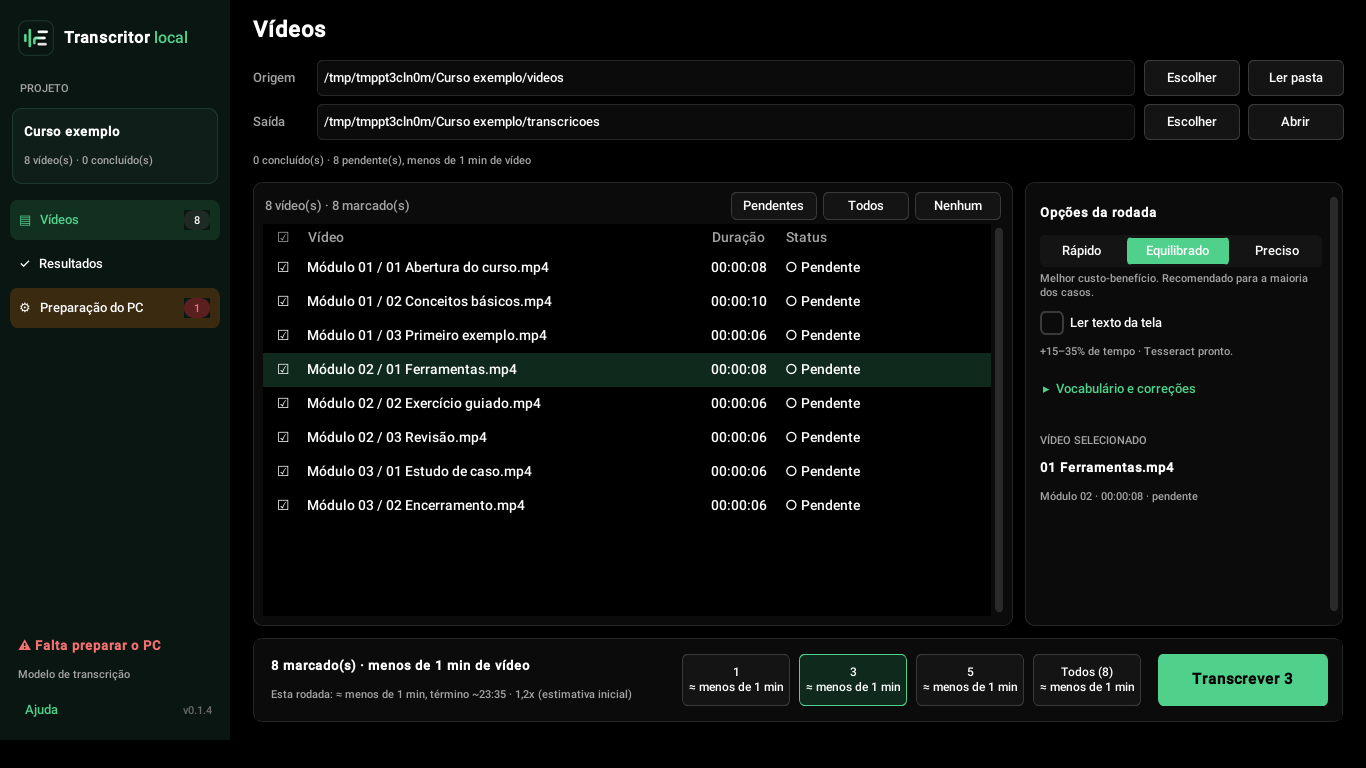
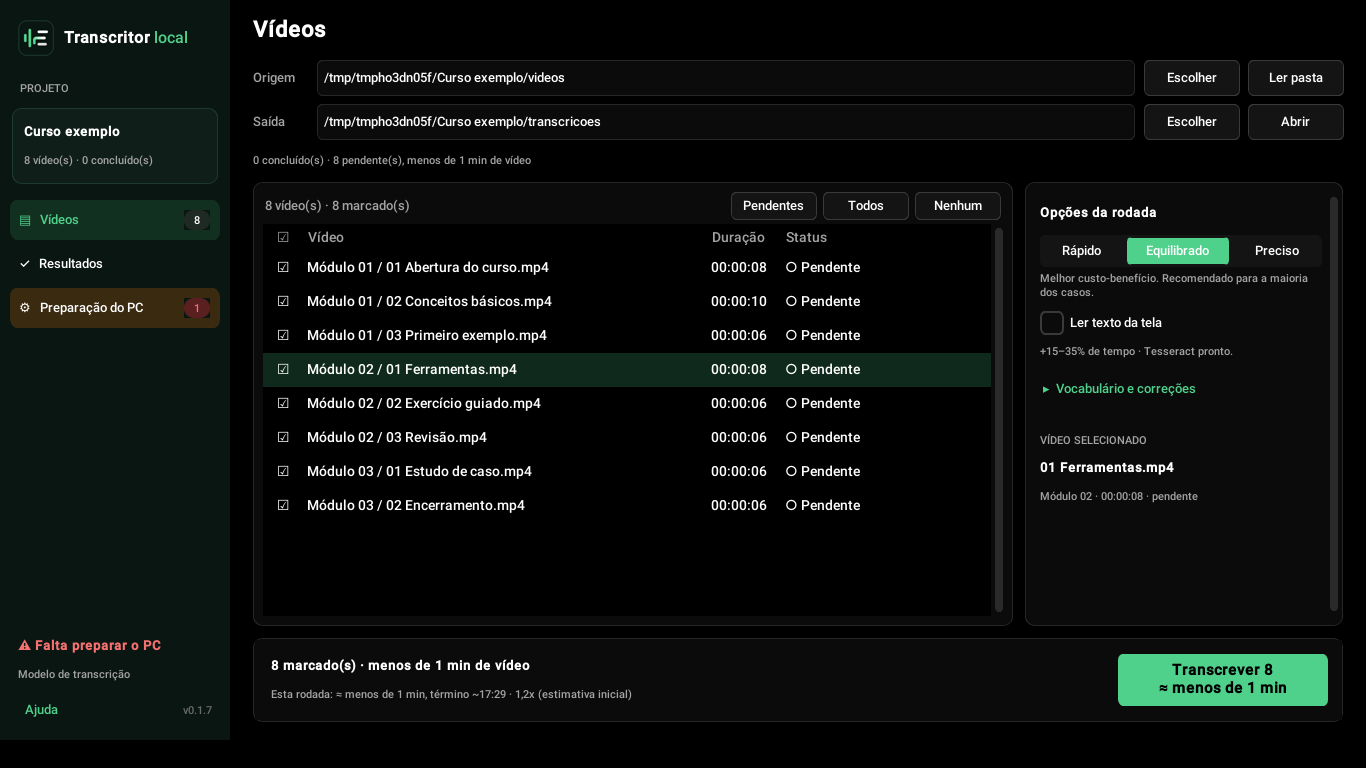
v0.1.8: botao unico Transcrever N, estimativa honesta e confirmacao centralizada
- Cartoes de quantidade saem; o botao roda os videos marcados (ADR-019)
- N10: tabela repintada apos rodada cancelada
- N11: estimativa so aprende com videos de 3 min ou mais, ponderada pela duracao
- N12: confirmacao centralizada, maior, com borda verde e lista dos videos
- Registro da 4a rodada no Windows

Claude-Session: https://claude.ai/code/session_01U5eN2mjJVSgCNjEcxw7N5w

Changed region(s): [[0.4919, 0.8438, 0.9531, 0.9375], [0.2767, 0.1562, 0.4305, 0.1875], [0.2767, 0.0938, 0.3997, 0.125]]

diff --git a/transcritor/gui/app.py b/transcritor/gui/app.py
@@ -97,7 +97,6 @@ class App(ctk.CTk):
         self.f_negrito = ctk.CTkFont(weight="bold")
         self.f_titulo = ctk.CTkFont(size=22, weight="bold")
         self.f_pequena = ctk.CTkFont(size=11)
-        self.f_qtd = ctk.CTkFont(size=12)
         self.f_principal = ctk.CTkFont(size=15, weight="bold")
         tema.estilo_tabela(self)
 
@@ -392,13 +391,9 @@ class App(ctk.CTk):
         self.lbl_sel_det = ctk.CTkLabel(txt, text="Escolha a pasta dos vídeos para começar.", anchor="w",
                                         text_color=tema.CINZA, font=self.f_pequena, justify="left")
         self.lbl_sel_det.pack(fill="x")
-        self.frm_qtd = ctk.CTkFrame(acao, fg_color="transparent")
-        self.frm_qtd.grid(row=0, column=1, padx=4)
-        self.btns_qtd: dict[str, ctk.CTkButton] = {}
-        self._qtd: str | None = None
-        self.btn_iniciar = ctk.CTkButton(acao, text="Transcrever", width=170, height=52, state="disabled",
+        self.btn_iniciar = ctk.CTkButton(acao, text="Transcrever", width=210, height=52, state="disabled",
                                          font=self.f_principal, command=self._iniciar)
-        self.btn_iniciar.grid(row=0, column=2, padx=(8, 14), pady=12)
+        self.btn_iniciar.grid(row=0, column=1, padx=(8, 14), pady=12)
         self._estado_principal(False)
 
         # ---- modo "rodada em andamento / terminada"
@@ -821,40 +816,16 @@ class App(ctk.CTk):
         return [i for i in self.itens if i.rel in self.marcados]
 
     def _atualizar_quantidades(self):
-        if not hasattr(self, "frm_qtd"):
+        """A seleção é a tabela: o que está marcado é o que roda (sem escolha extra de quantidade)."""
+        if not hasattr(self, "btn_iniciar"):
             return
         n = len(self._selecionados())
-        opcoes = [str(q) for q in (1, 3, 5) if q < n] + (["todos"] if n else [])
-        if list(self.btns_qtd) != opcoes:
-            for b in self.btns_qtd.values():
-                b.destroy()
-            self.btns_qtd = {}
-            for chave in opcoes:
-                b = ctk.CTkButton(self.frm_qtd, text="", width=92, height=52, font=self.f_qtd,
-                                  command=lambda c=chave: self._escolher_qtd(c), **tema.secundario())
-                b.pack(side="left", padx=4)
-                self.btns_qtd[chave] = b
-        if self._qtd not in opcoes:
-            self._qtd = None
         self.lbl_contagem.configure(text=f"{len(self.itens)} vídeo(s) · {n} marcado(s)" if self.itens
                                     else "Nenhum vídeo listado")
         self._atualizar_estimativa()
 
-    def _escolher_qtd(self, chave: str):
-        if self.rodando:
-            return
-        self._qtd = chave
-        self._atualizar_estimativa()
-
-    def _quantidade(self) -> int:
-        if self._qtd is None:
-            return 0
-        if self._qtd == "todos":
-            return len(self._selecionados())
-        return int(self._qtd)
-
     def _rodada(self) -> list[Item]:
-        return self._selecionados()[: self._quantidade()]
+        return self._selecionados()
 
     def _atualizar_resumo(self):
         if not self.projeto:
@@ -896,25 +867,16 @@ class App(ctk.CTk):
         self.lbl_sel_resumo.configure(
             text=f"{len(sel)} marcado(s) · {tempo_humano(sum(i.duracao for i in sel))} de vídeo" if sel
             else "Nenhum vídeo marcado")
-        for chave, b in self.btns_qtd.items():
-            q = len(sel) if chave == "todos" else int(chave)
-            rot = f"Todos ({len(sel)})" if chave == "todos" else chave
-            e = self.projeto.estimar(sel[:q], com_ocr)
-            escolhido = chave == self._qtd
-            b.configure(text=f"{rot}\n≈ {tempo_humano(e.total)}",
-                        fg_color=tema.VERDE_FUNDO if escolhido else tema.SUPERFICIE_2,
-                        border_color=tema.VERDE if escolhido else tema.BORDA_FORTE,
-                        text_color=tema.BRANCO)
         if rodada:
             er = self.projeto.estimar(rodada, com_ocr)
             fim = (datetime.now() + timedelta(seconds=er.total)).strftime("%H:%M")
             base = "medida neste PC" if er.medida else "estimativa inicial"
             self.lbl_sel_det.configure(text=f"Esta rodada: ≈ {tempo_humano(er.total)}, término ~{fim} · "
                                             f"{er.velocidade:.1f}x ({base})".replace(".", ","))
-            self.btn_iniciar.configure(text=f"Transcrever {len(rodada)}")
+            self.btn_iniciar.configure(text=f"Transcrever {len(rodada)}\n≈ {tempo_humano(er.total)}")
         else:
-            self.lbl_sel_det.configure(text="Quantos vídeos nesta rodada? (obrigatório)" if sel
-                                       else "Marque os vídeos na lista.")
+            self.lbl_sel_det.configure(text="Marque os vídeos na lista." if not sel
+                                       else "")
             self.btn_iniciar.configure(text="Transcrever")
         self._estado_principal(bool(rodada) and not self.rodando)
 
@@ -958,6 +920,8 @@ class App(ctk.CTk):
         e = self.projeto.estimar(rodada, cfg.ocr)
         r = Dialogo(self, "Confirmar rodada",
                     f"Processar {len(rodada)} vídeo(s)? Tempo estimado: ≈ {tempo_humano(e.total)}.\n\n"
+                    + "".join(f"• {i.rel}\n" for i in rodada[:5])
+                    + (f"• ... e mais {len(rodada) - 5}\n" if len(rodada) > 5 else "") + "\n"
                     "O PC fica mais lento enquanto isso, e o app impede que ele entre em suspensão. "
                     "Pode deixar rodando sozinho.",
                     [("Começar", "ok", True), ("Cancelar", None, False)], icone="▶", som=False).perguntar()
@@ -1019,7 +983,7 @@ class App(ctk.CTk):
         estado = "disabled" if sim else "normal"
         for w in (self.btn_ler, self.seg_preset, self.chk_ocr, self.ent_vocab, self.ent_videos, self.ent_saida,
                   self.btn_proc_videos, self.btn_proc_saida, self.btn_corr, *self.btns_marcar,
-                  *self.btns_qtd.values()):
+                  ):
             w.configure(state=estado)
         if sim:
             self.lbl_trava.pack(side="right")

diff --git a/transcritor/gui/componentes.py b/transcritor/gui/componentes.py
@@ -49,17 +49,26 @@ class Dica:
             self._janela = None
 
 
+def centralizar(janela, pai) -> None:
+    """Centraliza a janela no meio do pai (horizontal e vertical).
+
+    Mede o tamanho PEDIDO pelo conteúdo: o CTkToplevel nasce com 200x200 e `winfo_width` devolvia isso,
+    o que deixava a janela deslocada para a direita e para cima (achado N12)."""
+    janela.update_idletasks()
+    w, h = janela.winfo_reqwidth(), janela.winfo_reqheight()
+    px, py = pai.winfo_rootx(), pai.winfo_rooty()
+    pw, ph = pai.winfo_width(), pai.winfo_height()
+    janela.geometry(f"{w}x{h}+{max(0, px + (pw - w) // 2)}+{max(0, py + (ph - h) // 2)}")
+
+
 def trazer_para_frente(janela, pai) -> None:
     """Centraliza sobre o pai, torna modal e garante que apareça NA FRENTE (problema comum no Windows)."""
     janela.transient(pai)
-    janela.update_idletasks()
-    w, h = janela.winfo_width(), janela.winfo_height()
-    px, py = pai.winfo_rootx(), pai.winfo_rooty()
-    pw, ph = pai.winfo_width(), pai.winfo_height()
-    janela.geometry(f"+{max(0, px + (pw - w) // 2)}+{max(0, py + (ph - h) // 3)}")
+    centralizar(janela, pai)
 
     def _frente():
         try:
+            centralizar(janela, pai)  # o CustomTkinter reposiciona a janela logo após criar
             janela.lift()
             janela.attributes("-topmost", True)
             janela.focus_force()
@@ -67,7 +76,16 @@ def trazer_para_frente(janela, pai) -> None:
             janela.after(300, lambda: janela.attributes("-topmost", False))
         except tk.TclError:
             pass
-    janela.after(60, _frente)  # o CustomTkinter reposiciona a janela logo após criar
+    janela.after(60, _frente)
+    janela.after(250, lambda: _recentralizar(janela, pai))
+
+
+def _recentralizar(janela, pai) -> None:
+    try:
+        if janela.winfo_exists():
+            centralizar(janela, pai)
+    except tk.TclError:
+        pass
 
 
 def piscar_barra_de_tarefas(janela, vezes: int = 5) -> None:
@@ -117,17 +135,20 @@ class Dialogo(ctk.CTkToplevel):
     """
 
     def __init__(self, pai, titulo: str, mensagem: str, botoes, icone: str = "⚠", som: bool = True):
-        super().__init__(pai)
+        super().__init__(pai, fg_color="#0A0A0A")
         self.title(titulo)
         self.resizable(False, False)
         self.resultado = None
         self.botoes = botoes
-        topo = ctk.CTkFrame(self, fg_color="transparent")
-        topo.pack(fill="both", expand=True, padx=20, pady=(18, 8))
+        quadro = ctk.CTkFrame(self, fg_color="#0A0A0A", border_width=2, border_color="#4FD18B", corner_radius=0)
+        quadro.pack(fill="both", expand=True)  # borda verde: o diálogo se destaca do fundo preto
+        topo = ctk.CTkFrame(quadro, fg_color="transparent")
+        topo.pack(fill="both", expand=True, padx=22, pady=(22, 8))
         ctk.CTkLabel(topo, text=icone, font=ctk.CTkFont(size=30)).pack(side="left", anchor="n", padx=(0, 14))
-        ctk.CTkLabel(topo, text=mensagem, justify="left", wraplength=440, anchor="w").pack(side="left", fill="x")
-        barra = ctk.CTkFrame(self, fg_color="transparent")
-        barra.pack(fill="x", padx=20, pady=(4, 16))
+        ctk.CTkLabel(topo, text=mensagem, justify="left", wraplength=480, anchor="w",
+                     font=ctk.CTkFont(size=14)).pack(side="left", fill="x")
+        barra = ctk.CTkFrame(quadro, fg_color="transparent")
+        barra.pack(fill="x", padx=22, pady=(4, 20))
         for texto, valor, destaque in reversed(botoes):
             estilo = {} if destaque else dict(fg_color="#141414", hover_color="#1F1F1F", text_color="#FFFFFF",
                                               border_width=1, border_color="#3A3A3A")

diff --git a/transcritor/registro.py b/transcritor/registro.py
@@ -15,7 +15,6 @@ from __future__ import annotations
 
 import csv
 import shutil
-import statistics
 import time
 from dataclasses import asdict, dataclass, fields
 from datetime import datetime
@@ -55,6 +54,8 @@ class Linha:
     def concluido(self) -> bool:
         return self.status == OK
 
+
+MIN_APRENDER_S = 180.0   # vídeos mais curtos não entram nas estimativas (achado N11)
 
 _NUMERICOS = {"duracao_s", "seg_transcricao", "seg_ocr", "velocidade"}
 _INTEIROS = {"tamanho_bytes", "palavras", "palavras_tela", "capturas", "correcoes", "threads"}
@@ -211,14 +212,25 @@ class Registro:
     def pendentes(self) -> list[Linha]:
         return [l for l in self.ativos() if l.status != OK]
 
+    def _para_aprender(self, preset: str | None = None) -> list[Linha]:
+        """Últimos 5 vídeos concluídos que servem de amostra: com pelo menos MIN_APRENDER_S de duração.
+
+        Vídeo curto tem tempo fixo de partida (1,2x num de 42 s contra 1,7x num de 36 min) e envenenava
+        a estimativa (achado N11)."""
+        v = [l for l in self.linhas.values()
+             if l.status == OK and l.duracao_s >= MIN_APRENDER_S and (preset is None or l.preset == preset)]
+        return v[-5:]
+
     def velocidade_medida(self, preset: str) -> float | None:
-        """Mediana das últimas 5 velocidades reais para esta predefinição."""
-        v = [l.velocidade for l in self.linhas.values()
-             if l.status == OK and l.preset == preset and l.velocidade > 0]
-        return statistics.median(v[-5:]) if v else None
+        """Velocidade ponderada pela duração dos últimos 5 vídeos longos (minutos de vídeo por minuto real)."""
+        v = [l for l in self._para_aprender(preset) if l.velocidade > 0]
+        if not v:
+            return None
+        return sum(l.duracao_s for l in v) / sum(l.duracao_s / l.velocidade for l in v)
 
     def ocr_por_hora_medido(self) -> float | None:
-        """Segundos de OCR por hora de vídeo, medidos."""
-        v = [l.seg_ocr / (l.duracao_s / 3600) for l in self.linhas.values()
-             if l.status == OK and l.ocr == "sim" and l.seg_ocr > 0 and l.duracao_s > 0]
-        return statistics.median(v[-5:]) if v else None
+        """Segundos de OCR por hora de vídeo, medidos (ponderado pela duração)."""
+        v = [l for l in self._para_aprender() if l.ocr == "sim" and l.seg_ocr > 0]
+        if not v:
+            return None
+        return sum(l.seg_ocr for l in v) / (sum(l.duracao_s for l in v) / 3600)

diff --git a/ferramentas/fumaca/acao_e_confirmacao.py b/ferramentas/fumaca/acao_e_confirmacao.py
@@ -1,0 +1,44 @@
+"""Fumaça: botão único Transcrever N (sem cartões) e confirmação centralizada (v0.1.8, N12)."""
+import sys, time, tempfile
+from pathlib import Path
+sys.path.insert(0, "."); sys.path.insert(0, "tests")
+from conftest import criar_video, ModeloFalso
+from transcritor import pipeline
+from transcritor.gui import app as A
+m = ModeloFalso()
+pipeline.carregar_modelo = lambda *a, **k: (m, "cpu")
+pipeline.modelo_baixado = lambda n: True
+A.modelo_baixado = lambda n: True
+A.App._verificacao_inicial = lambda self: None
+tmp = Path(tempfile.mkdtemp())
+for nome in ("a", "b", "c"):
+    criar_video(tmp/f"v/{nome}.mp4", [(nome, 4)])
+app = A.App()
+app.geometry("1200x760+50+30")
+def bombear(seg, ate=None):
+    fim = time.time()+seg
+    while time.time() < fim and not (ate and ate()):
+        app.update(); time.sleep(0.03)
+app._definir(app.ent_videos, str(tmp/"v")); app._definir(app.ent_saida, str(tmp/"s"))
+app._ler_pasta(); bombear(5, lambda: app.projeto)
+assert not hasattr(app, "btns_qtd")
+texto = app.btn_iniciar.cget("text"); print(repr(texto))
+assert texto.startswith("Transcrever 3\n≈"), texto
+app._clique_tabela  # marcado/desmarcado direto
+app.marcados.discard("c.mp4"); app._atualizar_quantidades(); bombear(0.2)
+assert app.btn_iniciar.cget("text").startswith("Transcrever 2\n"), app.btn_iniciar.cget("text")
+assert app.btn_iniciar.cget("state") == "normal"
+app.marcados.clear(); app._atualizar_quantidades()
+assert app.btn_iniciar.cget("state") == "disabled"
+# confirmação centralizada
+app.update(); app.update_idletasks()
+d = A.Dialogo(app, "Confirmar rodada", "Processar 2 vídeo(s)? Tempo estimado: ≈ 1 min.\n\n• a.mp4\n• b.mp4\n\nO PC fica mais lento.",
+              [("Começar", "ok", True), ("Cancelar", None, False)], icone="▶", som=False)
+bombear(1.0)
+cx = d.winfo_rootx() + d.winfo_width()/2; cy = d.winfo_rooty() + d.winfo_height()/2
+px = app.winfo_rootx() + app.winfo_width()/2; py = app.winfo_rooty() + app.winfo_height()/2
+print("desvio do centro:", round(cx-px), round(cy-py), "tam", d.winfo_width(), d.winfo_height())
+assert abs(cx-px) <= 4 and abs(cy-py) <= 4
+d.destroy()
+app._fechar(); bombear(0.5)
+print("ACAO GUI OK")

diff --git a/tests/test_teste_real_p1.py b/tests/test_teste_real_p1.py
@@ -340,3 +340,32 @@ def test_n9_bloco_dominado_por_ruido_e_descartado():
 def test_n9_bloco_limpo_nao_muda():
     texto = "AGENTE ROTEIRISTA — Teoria conspiratória\nCrie um roteiro sobre uma teoria absurda"
     assert ocr.limpar(texto) == texto
+
+
+# ----------------------------------------------------------------------------- N11: aprender com vídeos longos
+
+
+def _linha(rel, dur, vel, seg_ocr=0.0):
+    from transcritor.registro import Linha
+    return Linha(rel, status="ok", preset="equilibrado", velocidade=vel, duracao_s=dur,
+                 ocr="sim" if seg_ocr else "nao", seg_ocr=seg_ocr)
+
+
+def test_n11_video_curto_nao_entra_na_estimativa(tmp_path):
+    from transcritor.registro import Registro
+    r = Registro(tmp_path / "r.csv")
+    r.linhas["curto"] = _linha("curto", 42, 1.2, seg_ocr=30)
+    assert r.velocidade_medida("equilibrado") is None
+    assert r.ocr_por_hora_medido() is None
+    r.linhas["longo"] = _linha("longo", 2200, 1.7, seg_ocr=350)
+    assert abs(r.velocidade_medida("equilibrado") - 1.7) < 1e-9
+    assert abs(r.ocr_por_hora_medido() - 350 / (2200 / 3600)) < 1e-6
+
+
+def test_n11_velocidade_pesa_pela_duracao(tmp_path):
+    from transcritor.registro import Registro
+    r = Registro(tmp_path / "r.csv")
+    r.linhas["a"] = _linha("a", 600, 1.0)    # 600 s de vídeo em 600 s
+    r.linhas["b"] = _linha("b", 3600, 2.0)   # 3600 s de vídeo em 1800 s
+    # total: 4200 s de vídeo em 2400 s reais = 1,75x (a mediana simples daria 1,5x)
+    assert abs(r.velocidade_medida("equilibrado") - 1.75) < 1e-9

diff --git a/transcritor/gui/textos.py b/transcritor/gui/textos.py
@@ -61,8 +61,9 @@ COMO_USAR = """COMO USAR — em 5 passos
      abre o arquivo correcoes.json no Bloco de Notas.
 
 5) TRANSCREVER
-   Na barra de baixo, escolha quantos vídeos fazer agora (obrigatório). Cada
-   cartão mostra o tempo estimado. Depois, clique em "Transcrever".
+   Marque na lista os vídeos desta rodada (use Pendentes, Todos ou Nenhum). O
+   botão da barra de baixo mostra quantos são e o tempo estimado: "Transcrever
+   N". O app pede confirmação antes de começar.
    A barra mostra a etapa (Áudio > Transcrição > Texto da tela > Salvar), o
    progresso e o término previsto. "Parar após este vídeo" não perde nada.
    Ao terminar, o app avisa com som e faz o ícone piscar na barra de tarefas.

diff --git a/tests/test_motor.py b/tests/test_motor.py
@@ -154,7 +154,7 @@ def test_estimativa_usa_medicao(tmp_path):
     e0 = estimar([3600], r, "equilibrado", "cpu", com_ocr=False)
     assert not e0.medida and abs(e0.segundos_transcricao - 3600 / 1.2) < 1
     from transcritor.registro import Linha
-    r.linhas["x"] = Linha("x", status=OK, preset="equilibrado", velocidade=2.0, duracao_s=60)
+    r.linhas["x"] = Linha("x", status=OK, preset="equilibrado", velocidade=2.0, duracao_s=600)
     e1 = estimar([3600], r, "equilibrado", "cpu", com_ocr=True)
     assert e1.medida and e1.segundos_transcricao == 1800 and e1.segundos_ocr > 0
 

diff --git a/ferramentas/fumaca/pacote_para_ia.py b/ferramentas/fumaca/pacote_para_ia.py
@@ -26,7 +26,7 @@ def bombear(seg, ate=None):
         app.update(); time.sleep(0.03)
 app._definir(app.ent_videos, str(tmp/"v")); app._definir(app.ent_saida, str(tmp/"s"))
 app._ler_pasta(); bombear(5, lambda: app.projeto)
-app.chk_ocr.select(); app._escolher_qtd("todos")
+app.chk_ocr.select()
 app._iniciar(); bombear(60, lambda: not app.rodando)
 print(app.lbl_status.cget("text"))
 app._ler_pasta(); bombear(10, lambda: "concluído" in app.lbl_resumo.cget("text"))

diff --git a/ferramentas/fumaca/rodada_tela_falha.py b/ferramentas/fumaca/rodada_tela_falha.py
@@ -24,7 +24,6 @@ def bombear(seg, ate=None):
         app.update(); time.sleep(0.03)
 app._definir(app.ent_videos, str(tmp/"v")); app._definir(app.ent_saida, str(tmp/"s"))
 app._ler_pasta(); bombear(5, lambda: app.projeto)
-app._escolher_qtd("todos")
 app.chk_ocr.select(); app._iniciar(); bombear(60, lambda: not app.rodando)
 print(app.lbl_status.cget("text"))
 print(sorted(p.name for p in (tmp/"s/transcricoes_md/Mod").iterdir()))

diff --git a/ferramentas/capturar_telas.py b/ferramentas/capturar_telas.py
@@ -39,7 +39,6 @@ bombear(4, lambda: app.situacao is not None)
 app._mostrar_pagina("videos"); foto("1_inicio")
 app._definir(app.ent_videos, str(tmp / "videos")); app._definir(app.ent_saida, str(tmp / "transcricoes"))
 app._ler_pasta(); bombear(10, lambda: app.projeto)
-app._escolher_qtd("3")
 app.tabela.selection_set(app.itens[3].rel)
 foto("2_videos")
 app._mostrar_pagina("preparacao"); foto("3_preparacao")

diff --git a/ferramentas/fumaca/rodada_completa.py b/ferramentas/fumaca/rodada_completa.py
@@ -20,7 +20,6 @@ def bombear(seg, ate=None):
         app.update(); time.sleep(0.03)
 app._definir(app.ent_videos, str(tmp/"v")); app._definir(app.ent_saida, str(tmp/"s"))
 app._ler_pasta(); bombear(5, lambda: app.projeto)
-app._escolher_qtd("todos")
 app._iniciar(); bombear(60, lambda: not app.rodando)
 print(app.lbl_status.cget("text"))
 print(sorted(p.name for p in (tmp/"s/transcricoes_md/Mod").iterdir()))

diff --git a/ferramentas/fumaca/cancelar_rodada.py b/ferramentas/fumaca/cancelar_rodada.py
@@ -32,7 +32,6 @@ def bombear(seg, ate=None):
         app.update(); time.sleep(0.03)
 app._definir(app.ent_videos, str(tmp/"v")); app._definir(app.ent_saida, str(tmp/"s"))
 app._ler_pasta(); bombear(5, lambda: app.projeto)
-app._escolher_qtd("todos")
 app._iniciar()
 bombear(30, lambda: app.tabela.set("a.mp4", "status") == A.ROTULO_PROCESSANDO)
 bombear(1.5)
